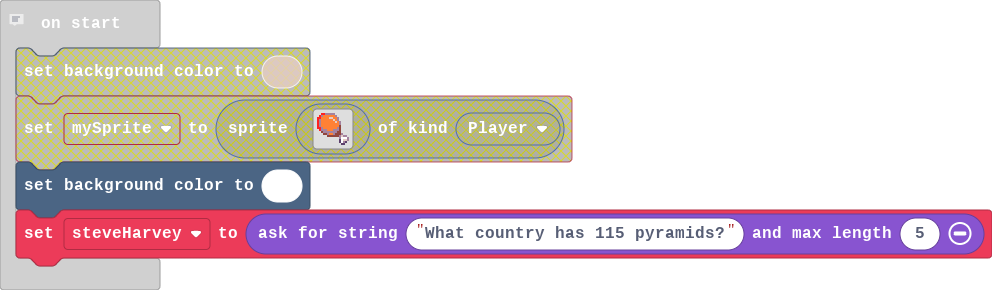
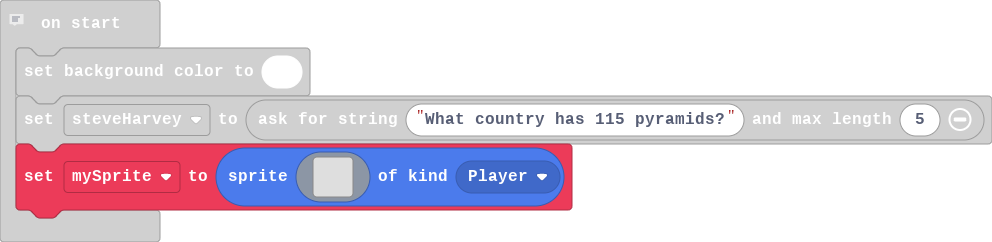
Update main.blocks, main.ts

diff --git a/main.ts b/main.ts
@@ -1,3 +1,21 @@
 // Don't forget to comment your code as you work!
 scene.setBackgroundColor(1)
 let steveHarvey = game.askForString("What country has 115 pyramids?", 5)
+let mySprite = sprites.create(img`
+    . . . . . . . . . . . . . . . . 
+    . . . . . . . . . . . . . . . . 
+    . . . . . . . . . . . . . . . . 
+    . . . . . . . . . . . . . . . . 
+    . . . . . . . . . . . . . . . . 
+    . . . . . . . . . . . . . . . . 
+    . . . . . . . . . . . . . . . . 
+    . . . . . . . . . . . . . . . . 
+    . . . . . . . . . . . . . . . . 
+    . . . . . . . . . . . . . . . . 
+    . . . . . . . . . . . . . . . . 
+    . . . . . . . . . . . . . . . . 
+    . . . . . . . . . . . . . . . . 
+    . . . . . . . . . . . . . . . . 
+    . . . . . . . . . . . . . . . . 
+    . . . . . . . . . . . . . . . . 
+    `, SpriteKind.Player)
